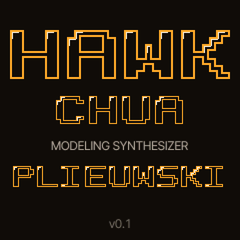
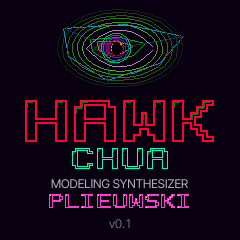
The picture online (README, the Firmware Hub's card): PSYCHEDELIC's splash
Claude-Session: https://claude.ai/code/session_01N8fVRAE5kAtsTq3M4nJpax

Changed region(s): [[0.0292, 0.3792, 0.9333, 0.875], [0.0292, 0.0292, 0.9625, 0.35]]

diff --git a/tests/ui_shot.c b/tests/ui_shot.c
@@ -373,7 +373,7 @@ int main(int argc, char **argv)
     bad |= shot(dir, "a_splash_psy_0");
     splash_psy(500);
     bad |= shot(dir, "a_splash_psy_1");
-    splash_psy(900);
+    splash_psy(740);                     /* (docs/hawk-chua.png and card.png: this frame) */
     bad |= shot(dir, "a_splash_psy_2");
     sys.ui_style = US_INITIAL;
     style_apply();
